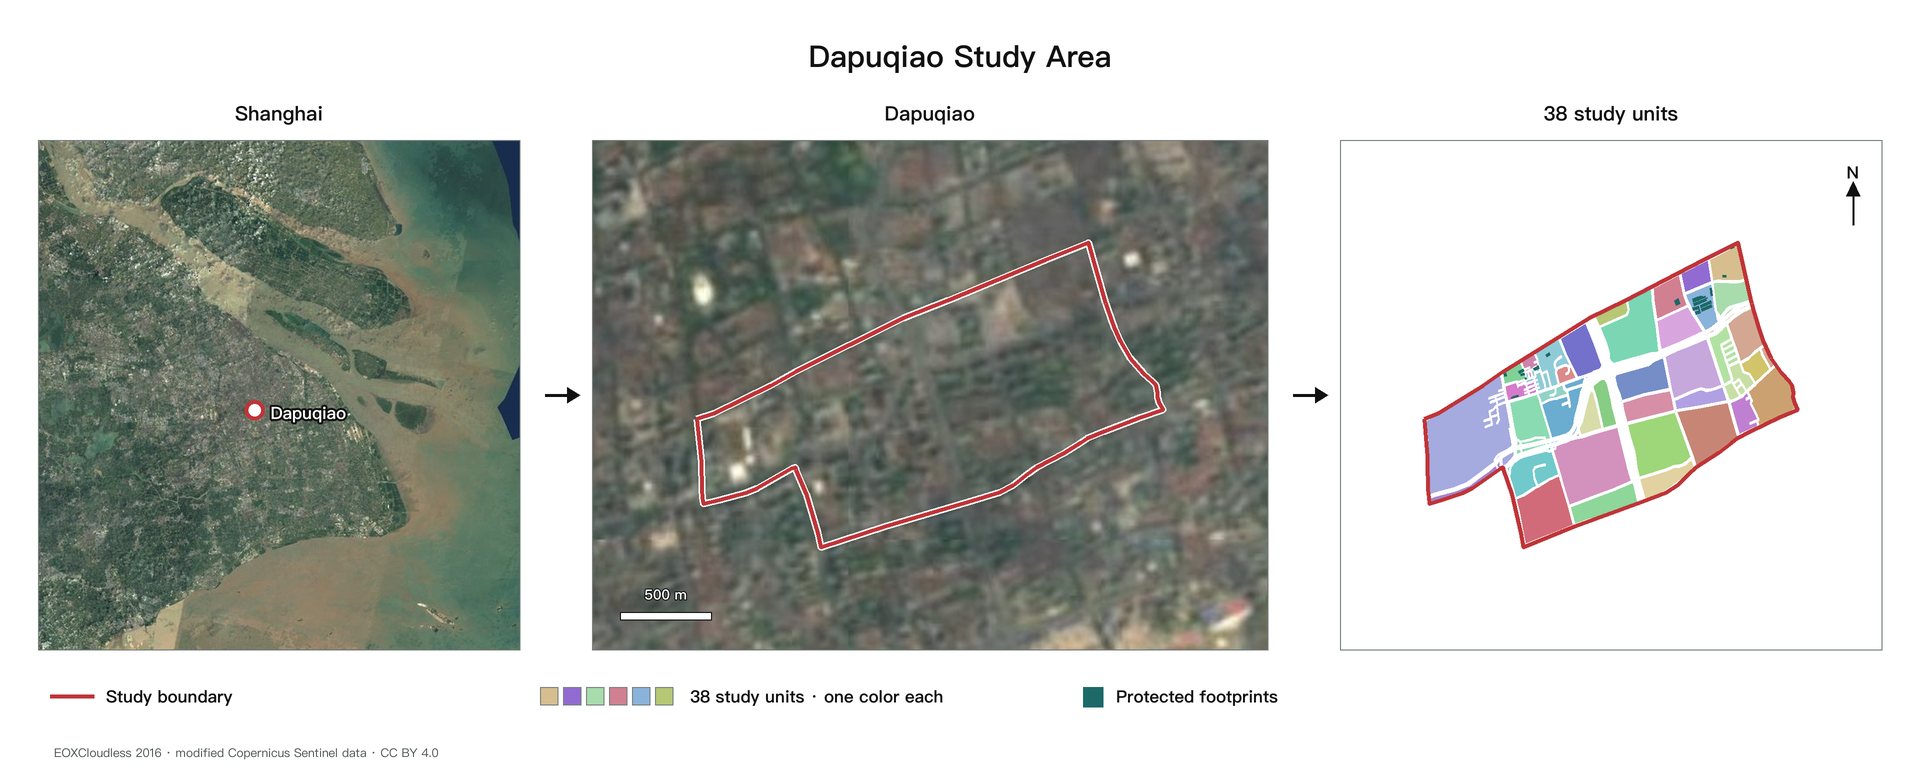
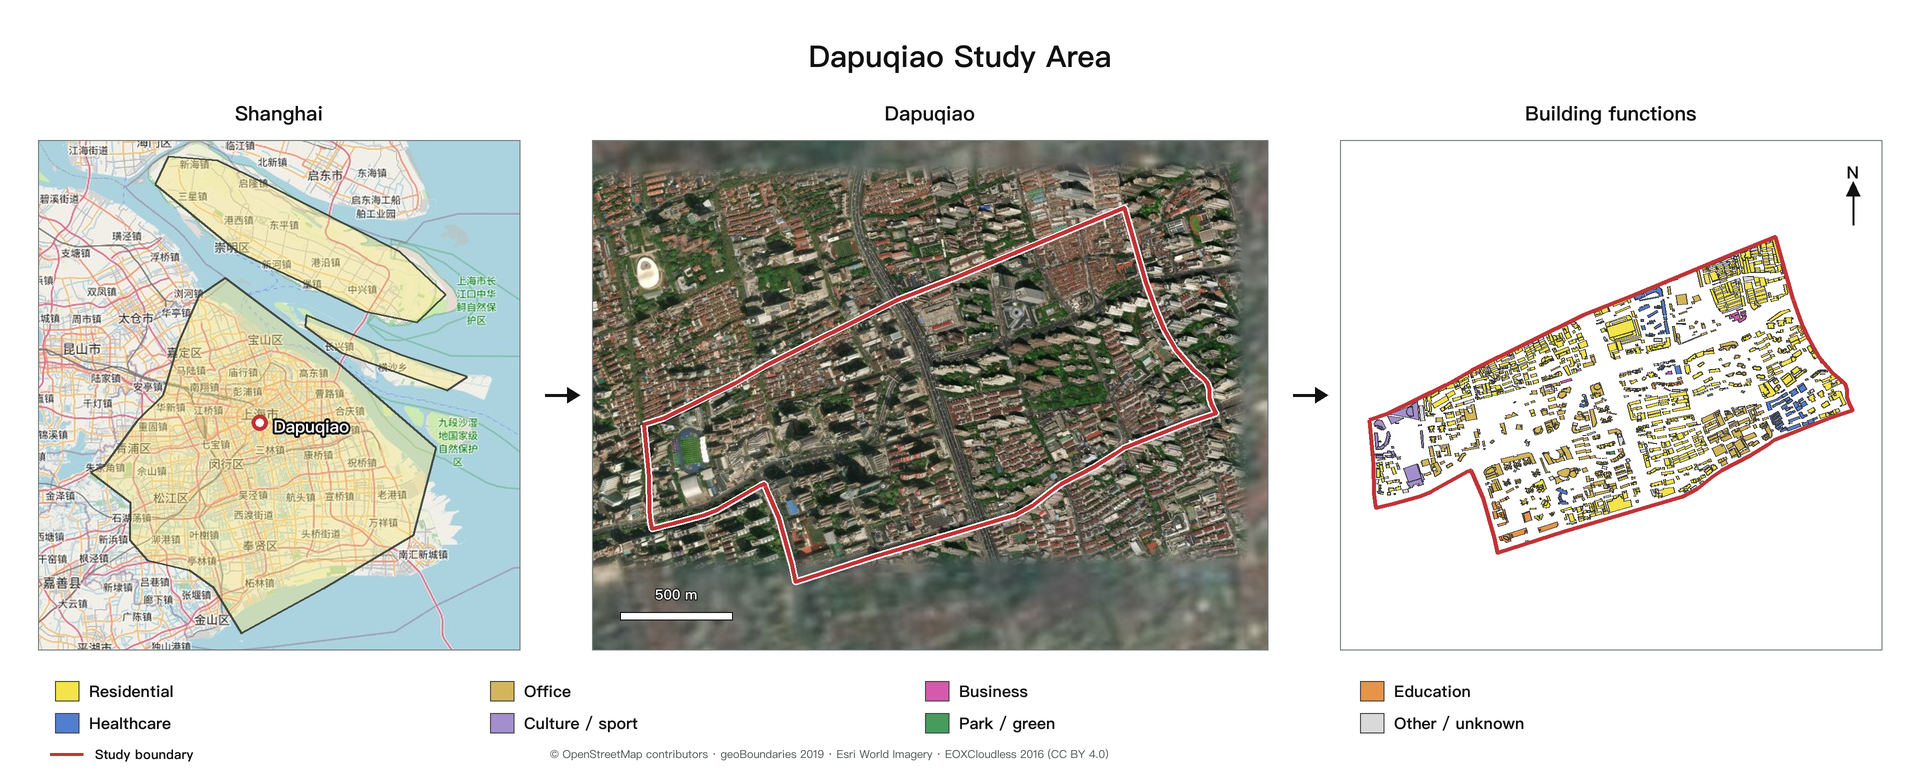
Use OSM locator and building functions in study map

diff --git a/research/paper_draft_cn/figures/make_site_map.py b/research/paper_draft_cn/figures/make_site_map.py
@@ -1,19 +1,16 @@
-"""Draw georeferenced Shanghai → Dapuqiao → study-unit panels.
-
-Satellite tiles: EOxCloudless Sentinel-2 cloudless 2016 (CC BY 4.0),
-https://cloudless.eox.at by EOX IT Services GmbH; modified Copernicus data.
-Tile mosaics are cached beside this script for reproducible offline rendering.
-"""
+"""Draw georeferenced Shanghai → Dapuqiao → building-function panels."""
 
 import io
 import json
 import math
-import colorsys
 from pathlib import Path
 from urllib.request import Request, urlopen
 
+import geopandas as gpd
+import numpy as np
 from PIL import Image, ImageDraw
 from pyproj import Transformer
+from scipy.ndimage import map_coordinates
 from shapely.geometry import shape
 from shapely.ops import transform
 
@@ -24,21 +21,57 @@ ROOT = Path(__file__).resolve().parents[3]
 DATA = ROOT / "05_Shanghai Power to Form Students/data/dapuqiao"
 HERE = Path(__file__).resolve().parent
 OUTPUT = HERE / "study_area_satellite.png"
+GROUND = ROOT / "06_AI Render Students/out/dapuqiao"
 MERCATOR = 20037508.342789244
 TO_MERC = Transformer.from_crs(4326, 3857, always_xy=True)
+MERC_TO_UTM = Transformer.from_crs(3857, 32651, always_xy=True)
 S = 2
 WIDTH, HEIGHT = 1920, 780
 PANELS = ((38, 140, 520, 650), (592, 140, 1268, 650), (1340, 140, 1882, 650))
 INK = "#111111"
 RED = "#bf3437"
+FUNCTION_COLORS = {
+    "Residential": "#f4e34b",
+    "Office": "#d4b65a",
+    "Business": "#d659ae",
+    "Education": "#e59448",
+    "Healthcare": "#527ed2",
+    "Culture / sport": "#a38fcd",
+    "Park / green": "#469c5b",
+    "Other / unknown": "#d9d9d9",
+}
 
-def unit_color(index):
-    """Give every study unit a distinct, legible, muted fill."""
-    hue = (0.11 + index * 0.61803398875) % 1
-    lightness = (0.70, 0.62, 0.76, 0.66)[index % 4]
-    saturation = (0.47, 0.53, 0.42)[index % 3]
-    rgb = colorsys.hls_to_rgb(hue, lightness, saturation)
-    return "#" + "".join(f"{round(channel * 255):02x}" for channel in rgb)
+
+def building_function(record):
+    """Use recorded EULUC first, with function/AOI only for missing labels."""
+    use = str(record.get("euluc") or "")
+    function = str(record.get("function") or "")
+    aoi = str(record.get("aoi_type2") or "")
+    if "公园" in use:
+        return "Park / green"
+    if "医疗" in use:
+        return "Healthcare"
+    if "教育" in use:
+        return "Education"
+    if "体育" in use:
+        return "Culture / sport"
+    if "商业" in use:
+        return "Business"
+    if "办公" in use:
+        return "Office"
+    if "居住" in use:
+        return "Residential"
+    if "医院" in aoi:
+        return "Healthcare"
+    if "学校" in aoi:
+        return "Education"
+    if function == "Business" or "宾馆" in aoi:
+        return "Business"
+    if function == "Office":
+        return "Office"
+    if function == "Residence":
+        return "Residential"
+    return "Other / unknown"
 
 
 def features(name):
@@ -47,6 +80,11 @@ def features(name):
 
 def area_geometry():
     return transform(TO_MERC.transform, shape(features("study_boundary.geojson")[0]["geometry"]))
+
+
+def city_geometry():
+    cached = HERE / "shanghai_boundary_geoboundaries.geojson"
+    return transform(TO_MERC.transform, shape(json.loads(cached.read_text())["features"][0]["geometry"]))
 
 
 def expand_to_aspect(bounds, ratio, margin=0.0):
@@ -65,7 +103,7 @@ def tile_pixel(x, y, zoom):
     return (x + MERCATOR) / (2 * MERCATOR) * world, (MERCATOR - y) / (2 * MERCATOR) * world
 
 
-def fetch_raster(extent, zoom, cache):
+def fetch_raster(extent, zoom, cache, provider):
     if cache.exists():
         return Image.open(cache).convert("RGB")
     x0, y0, x1, y1 = extent
@@ -76,13 +114,37 @@ def fetch_raster(extent, zoom, cache):
     mosaic = Image.new("RGB", ((col1 - col0 + 1) * 256, (row1 - row0 + 1) * 256), "white")
     for row in range(row0, row1 + 1):
         for col in range(col0, col1 + 1):
-            url = f"https://tiles.maps.eox.at/wmts/1.0.0/s2cloudless_3857/default/g/{zoom}/{row}/{col}.jpg"
-            response = urlopen(Request(url, headers={"User-Agent": "DF26 research figure"}), timeout=25)
+            if provider == "osm":
+                url = f"https://tile.openstreetmap.org/{zoom}/{col}/{row}.png"
+            else:
+                url = f"https://tiles.maps.eox.at/wmts/1.0.0/s2cloudless_3857/default/g/{zoom}/{row}/{col}.jpg"
+            response = urlopen(Request(url, headers={"User-Agent": "DF26 academic figure (github.com/liuxingtong/DF26_ws18)"}), timeout=25)
             tile = Image.open(io.BytesIO(response.read())).convert("RGB")
             mosaic.paste(tile, ((col - col0) * 256, (row - row0) * 256))
     crop = mosaic.crop((round(left - col0 * 256), round(top - row0 * 256), round(right - col0 * 256), round(bottom - row0 * 256)))
     crop.save(cache, quality=92, optimize=True)
     return crop
+
+
+def detailed_local_image(extent, panel):
+    """Blend the georeferenced Esri cache with Sentinel imagery at its edges."""
+    fallback = fetch_raster(extent, 14, HERE / "dapuqiao_sentinel_local_2016.jpg", "eox")
+    width, height = (panel[2] - panel[0]) * S, (panel[3] - panel[1]) * S
+    base = np.asarray(fallback.resize((width, height), Image.Resampling.LANCZOS), dtype=np.float32)
+    meta = json.loads((GROUND / "ground_scene.json").read_text())
+    source = np.asarray(Image.open(GROUND / "ground_scene.jpg").convert("RGB"), dtype=np.float32)
+    ux0, uy0 = meta["bounds"][0] + meta["local"][0], meta["bounds"][1] + meta["local"][1]
+    ux1, uy1 = meta["bounds"][0] + meta["local"][2], meta["bounds"][1] + meta["local"][3]
+    xs = np.linspace(extent[0], extent[2], width, endpoint=False) + (extent[2] - extent[0]) / (2 * width)
+    ys = np.linspace(extent[3], extent[1], height, endpoint=False) - (extent[3] - extent[1]) / (2 * height)
+    mx, my = np.meshgrid(xs, ys)
+    ux, uy = MERC_TO_UTM.transform(mx, my)
+    col = (ux - ux0) / (ux1 - ux0) * source.shape[1] - 0.5
+    row = (uy1 - uy) / (uy1 - uy0) * source.shape[0] - 0.5
+    edge = np.minimum.reduce((col, row, source.shape[1] - 1 - col, source.shape[0] - 1 - row))
+    alpha = np.clip(edge / 36, 0, 1)[..., None]
+    detailed = np.stack([map_coordinates(source[:, :, k], [row, col], order=1, mode="nearest") for k in range(3)], axis=-1)
+    return Image.fromarray(np.uint8(np.clip(base * (1 - alpha) + detailed * alpha, 0, 255)))
 
 
 def point_in_panel(x, y, extent, panel):
@@ -107,41 +169,42 @@ def draw_polygon(drawer, polygon, extent, panel, fill=None, outline=None, width=
 
 def draw():
     area = area_geometry()
+    city = city_geometry()
     city_box, local_box, units_box = PANELS
-    city_bbox = tuple(TO_MERC.transform(x, y) for x, y in ((120.75, 30.55), (122.35, 31.95)))
-    city_extent = expand_to_aspect((city_bbox[0][0], city_bbox[0][1], city_bbox[1][0], city_bbox[1][1]),
-                                   (city_box[2] - city_box[0]) / (city_box[3] - city_box[1]))
+    city_extent = expand_to_aspect(city.bounds,
+                                   (city_box[2] - city_box[0]) / (city_box[3] - city_box[1]), margin=0.07)
     local_extent = expand_to_aspect(area.bounds,
-                                    (local_box[2] - local_box[0]) / (local_box[3] - local_box[1]), margin=0.45)
+                                    (local_box[2] - local_box[0]) / (local_box[3] - local_box[1]), margin=0.18)
+    units_extent = expand_to_aspect(area.bounds,
+                                    (units_box[2] - units_box[0]) / (units_box[3] - units_box[1]), margin=0.12)
     image = Image.new("RGB", (WIDTH * S, HEIGHT * S), "white")
     ink = ImageDraw.Draw(image)
     ink.text((WIDTH * S / 2, 56 * S), "Dapuqiao Study Area", font=font(30, True), fill=INK, anchor="mm")
-    for panel, title in zip(PANELS, ("Shanghai", "Dapuqiao", "38 study units")):
+    for panel, title in zip(PANELS, ("Shanghai", "Dapuqiao", "Building functions")):
         ink.text(((panel[0] + panel[2]) * S / 2, 113 * S), title, font=font(20, True), fill=INK, anchor="mm")
 
-    for panel, extent, zoom, cache in ((city_box, city_extent, 9, HERE / "shanghai_sentinel_2016.jpg"),
-                                      (local_box, local_extent, 14, HERE / "dapuqiao_sentinel_2016.jpg")):
-        raster = fetch_raster(extent, zoom, cache)
-        raster = raster.resize(((panel[2] - panel[0]) * S, (panel[3] - panel[1]) * S), Image.Resampling.LANCZOS)
-        image.paste(raster, (panel[0] * S, panel[1] * S))
+    city_raster = fetch_raster(city_extent, 9, HERE / "shanghai_osm_land.jpg", "osm")
+    city_raster = city_raster.resize(((city_box[2] - city_box[0]) * S, (city_box[3] - city_box[1]) * S), Image.Resampling.LANCZOS)
+    image.paste(city_raster, (city_box[0] * S, city_box[1] * S))
+    image.paste(detailed_local_image(local_extent, local_box), (local_box[0] * S, local_box[1] * S))
 
-    ink = ImageDraw.Draw(image)
+    ink = ImageDraw.Draw(image, "RGBA")
     for panel in PANELS:
         ink.rectangle(tuple(v * S for v in panel), outline="#737c7b", width=S)
+    draw_polygon(ink, city, city_extent, city_box,
+                 fill=(248, 230, 119, 95), outline=(58, 64, 55, 235), width=2)
     cx, cy = area.centroid.x, area.centroid.y
     px, py = point_in_panel(cx, cy, city_extent, city_box)
-    ink.ellipse((px - 10 * S, py - 10 * S, px + 10 * S, py + 10 * S), fill="white", outline=RED, width=4 * S)
-    ink.text((px + 16 * S, py - 10 * S), "Dapuqiao", font=font(17, True), fill="white", stroke_width=2 * S, stroke_fill=INK)
+    ink.ellipse((px - 8 * S, py - 8 * S, px + 8 * S, py + 8 * S), fill="white", outline=RED, width=4 * S)
+    ink.text((px + 14 * S, py - 9 * S), "Dapuqiao", font=font(17, True), fill="white", stroke_width=2 * S, stroke_fill=INK)
     draw_polygon(ink, area, local_extent, local_box, outline="white", width=7)
     draw_polygon(ink, area, local_extent, local_box, outline=RED, width=4)
 
-    for index, feature in enumerate(features("intervention_zones.geojson")):
-        geom = transform(TO_MERC.transform, shape(feature["geometry"]))
-        draw_polygon(ink, geom, local_extent, units_box, fill=unit_color(index), outline="white", width=2)
-    for feature in features("heritage_buildings.geojson"):
-        geom = transform(TO_MERC.transform, shape(feature["geometry"]))
-        draw_polygon(ink, geom, local_extent, units_box, fill="#1c6968")
-    draw_polygon(ink, area, local_extent, units_box, outline=RED, width=4)
+    buildings = gpd.read_parquet(DATA / "buildings.parquet").to_crs(3857)
+    for _, record in buildings.iterrows():
+        draw_polygon(ink, record.geometry, units_extent, units_box,
+                     fill=FUNCTION_COLORS[building_function(record)], outline="#373737", width=1)
+    draw_polygon(ink, area, units_extent, units_box, outline=RED, width=4)
 
     for a, b in ((545, 572), (1293, 1320)):
         ink.line((a * S, 395 * S, b * S, 395 * S), fill=INK, width=3 * S)
@@ -154,15 +217,14 @@ def draw():
     ink.rectangle((620 * S, 612 * S, (620 + bar_px) * S, 620 * S), fill="white", outline=INK, width=S)
     ink.text(((620 + bar_px / 2) * S, 600 * S), "500 m", font=font(14, True), fill="white", stroke_width=S, stroke_fill=INK, anchor="mb")
 
-    ink.line((50 * S, 696 * S, 94 * S, 696 * S), fill=RED, width=4 * S)
-    ink.text((106 * S, 696 * S), "Study boundary", font=font(17, True), fill=INK, anchor="lm")
-    for i in range(6):
-        x = 540 + i * 23
-        ink.rectangle((x * S, 687 * S, (x + 18) * S, 705 * S), fill=unit_color(i), outline="#777f7e", width=S)
-    ink.text((690 * S, 696 * S), "38 study units · one color each", font=font(17, True), fill=INK, anchor="lm")
-    ink.rectangle((1083 * S, 687 * S, 1103 * S, 707 * S), fill="#1c6968")
-    ink.text((1116 * S, 696 * S), "Protected footprints", font=font(17, True), fill=INK, anchor="lm")
-    ink.text((54 * S, 744 * S), "EOXCloudless 2016 · modified Copernicus Sentinel data · CC BY 4.0", font=font(12), fill="#4a5352")
+    for index, (label, color) in enumerate(FUNCTION_COLORS.items()):
+        col, row = index % 4, index // 4
+        x, y = 55 + col * 435, 681 + row * 32
+        ink.rectangle((x * S, y * S, (x + 24) * S, (y + 20) * S), fill=color, outline="#444444", width=S)
+        ink.text(((x + 34) * S, (y + 10) * S), label, font=font(16, True), fill=INK, anchor="lm")
+    ink.line((50 * S, 754 * S, 83 * S, 754 * S), fill=RED, width=3 * S)
+    ink.text((95 * S, 754 * S), "Study boundary", font=font(13, True), fill=INK, anchor="lm")
+    ink.text((550 * S, 754 * S), "© OpenStreetMap contributors · geoBoundaries 2019 · Esri World Imagery · EOXCloudless 2016 (CC BY 4.0)", font=font(11), fill="#4a5352", anchor="lm")
     image.resize((WIDTH, HEIGHT), Image.Resampling.LANCZOS).save(OUTPUT, optimize=True)
     print(OUTPUT)
 
